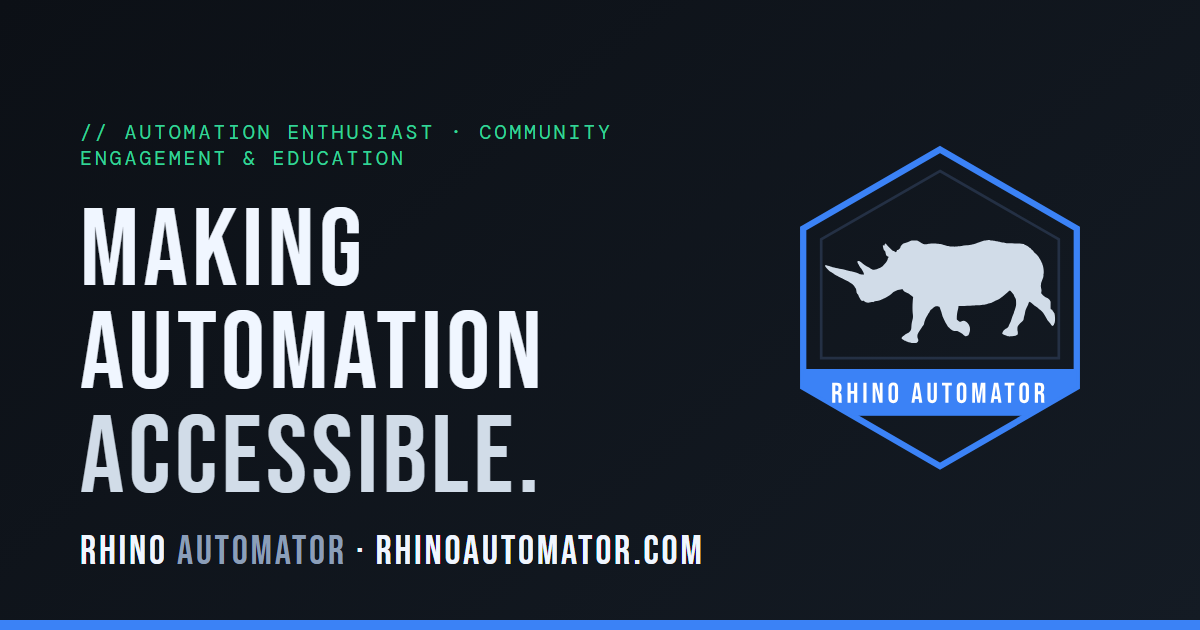
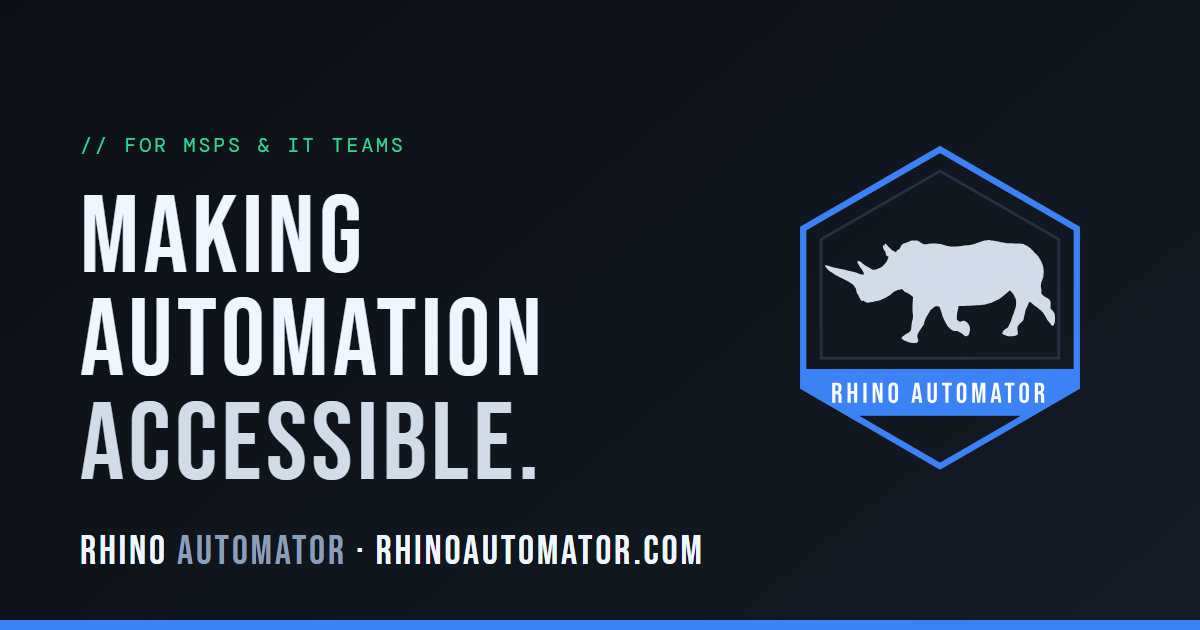
feat(site): consulting contact, Barlow in assessment, regenerated social card
- Consulting card emails brian@rhinoautomator.com with a prefilled subject
- About page contact icons get accessible labels
- Nav width moves from inline style to a .nav-wrap class
- Radar axis labels larger on desktop and mobile
- Assessment descriptions and printable report use Barlow for running text
- Brand page notes use Barlow; size-spec grid no longer collides
- OG card tag synced with hero; og-image.png regenerated

Changed region(s): [[0.0617, 0.3016, 0.4625, 0.7841], [0.0617, 0.181, 0.37, 0.2714], [0.4008, 0.181, 0.4933, 0.2413]]

diff --git a/assessment/index.html b/assessment/index.html
@@ -46,7 +46,7 @@ pageCss: |2
 
       /* ── Archetype ── */
       .archetype-name { font-family: var(--ff-display); font-weight: 400; font-size: var(--fs-assess-name); flex: 1; letter-spacing: 0.04em; }
-      .archetype-desc { font-family: var(--ff-body); font-size: var(--fs-assess-desc); color: var(--muted); margin-top: 2px; }
+      .archetype-desc { font-family: var(--ff-text); font-size: var(--fs-assess-desc); color: var(--muted); margin-top: 2px; }
       .archetype-score-badge {
         min-width: 36px; height: 36px; border-radius: 8px; background: var(--accent); color: #fff;
         display: flex; align-items: center; justify-content: center; font-weight: 700; font-size: var(--fs-assess-badge); flex-shrink: 0;
@@ -70,7 +70,7 @@ pageCss: |2
       .sub-list-title { font-family: var(--ff-mono); font-size: var(--fs-assess-mono-sm); font-weight: 500; color: var(--emerald); text-transform: uppercase; letter-spacing: 0.12em; margin-bottom: 8px; }
       .sub-item { margin-bottom: 7px; padding: 8px 10px; background: var(--surface-alt); border-radius: 6px; border-left: 3px solid var(--cobalt); }
       .sub-item-name { font-family: var(--ff-body); font-size: var(--fs-assess-body); font-weight: 700; }
-      .sub-item-desc { font-family: var(--ff-body); font-size: var(--fs-assess-desc); color: var(--muted); margin-top: 1px; }
+      .sub-item-desc { font-family: var(--ff-text); font-size: var(--fs-assess-desc); color: var(--muted); margin-top: 1px; }
       .sub-item-ref { font-family: var(--ff-mono); font-size: var(--fs-assess-mono-sm); color: var(--muted); margin-top: 2px; font-style: normal; letter-spacing: 0.02em; }
 
       /* ── Chart ── */
@@ -1190,9 +1190,9 @@ function buildReportHtml(includeIndiv, depth) {
   var h = '<!DOCTYPE html><html lang="en"><head><meta charset="UTF-8">';
   h += '<title>Archetypes of Automation \u2014 Capability Report | Rhino Automator</title>';
   h += '<link rel="preconnect" href="https://fonts.googleapis.com"><link rel="preconnect" href="https://fonts.gstatic.com" crossorigin>';
-  h += '<link href="https://fonts.googleapis.com/css2?family=Bebas+Neue&family=Barlow+Condensed:wght@300;400;600;700&family=DM+Mono:wght@400;500&display=swap" rel="stylesheet"><style>';
+  h += '<link href="https://fonts.googleapis.com/css2?family=Bebas+Neue&family=Barlow:wght@400;500;600;700&family=Barlow+Condensed:wght@300;400;600;700&family=DM+Mono:wght@400;500&display=swap" rel="stylesheet"><style>';
   h += '* { box-sizing:border-box; margin:0; padding:0; }';
-  h += 'body { font-family:"Barlow Condensed",sans-serif; color:#1a1f36; background:#fff; padding:40px 48px; max-width:960px; margin:0 auto; font-size:13px; }';
+  h += 'body { font-family:"Barlow",sans-serif; color:#1a1f36; background:#fff; padding:40px 48px; max-width:960px; margin:0 auto; font-size:13px; }';
   h += '.rh { display:flex; gap:16px; align-items:center; padding-bottom:18px; border-bottom:3px solid #3B82F6; margin-bottom:28px; }';
   h += '.rh-logo { width:52px; height:52px; }';
   h += 'h1 { font-family:"Bebas Neue",sans-serif; font-size:1.6rem; font-weight:400; color:#3B82F6; margin-bottom:2px; letter-spacing:0.05em; }';

diff --git a/index.html b/index.html
@@ -35,7 +35,7 @@ pageCss: |2
       .radar .axis { stroke: var(--border); stroke-width: 1; }
       .radar .axis-label {
         /* SVG units: the chart scales with its width, so labels grow as the chart shrinks */
-        font-family: var(--ff-mono); font-size: 13px; letter-spacing: 0.08em;
+        font-family: var(--ff-mono); font-size: 16px; letter-spacing: 0.06em;
         fill: var(--muted); text-transform: uppercase;
       }
       .radar .axis-label.gap { fill: var(--emerald); }
@@ -74,6 +74,10 @@ pageCss: |2
         color: var(--text); margin-bottom: 8px;
       }
       .pillar-card p { font-size: var(--fs-body); color: var(--muted); line-height: 1.6; }
+      .pillar-cta {
+        display: inline-block; margin-top: 16px; font-weight: 700; font-size: var(--fs-btn);
+        letter-spacing: 0.08em; text-transform: uppercase; color: var(--emerald);
+      }
 
       /* Feature list */
       .features { display: grid; grid-template-columns: 1fr 1fr; gap: 16px; }
@@ -103,7 +107,7 @@ pageCss: |2
       @media (max-width: 860px) {
         .hero { grid-template-columns: 1fr; }
         .radar-figure { max-width: 420px; justify-self: center; width: 100%; }
-        .radar .axis-label { font-size: 17px; letter-spacing: 0.04em; }
+        .radar .axis-label { font-size: 19px; letter-spacing: 0.04em; }
         .pillars, .proof, .features { grid-template-columns: 1fr; }
       }
       @media (max-width: 600px) {
@@ -196,10 +200,11 @@ pageCss: |2
         <h3>AUTOMATION</h3>
         <p>Real workflows that solve real problems. Rewst, Power Automate, and whatever gets the job done, focused on MSP and IT operations.</p>
       </a>
-      <a href="/framework/" class="card pillar-card">
+      <a href="mailto:brian@rhinoautomator.com?subject=Automation%20consulting" class="card pillar-card">
         <div class="icon-box pillar-icon"><svg width="22" height="22" viewBox="0 0 24 24" fill="none" stroke="currentColor" stroke-width="2" stroke-linecap="round" stroke-linejoin="round" aria-hidden="true"><circle cx="12" cy="12" r="10"/><circle cx="12" cy="12" r="6"/><circle cx="12" cy="12" r="2"/></svg></div>
         <h3>CONSULTING</h3>
         <p>Helping teams decide what to automate, who should be involved, and how to build a practice that doesn't depend on a single developer.</p>
+        <span class="pillar-cta">Email me about consulting &rarr;</span>
       </a>
       <a href="/community/seen-me.html" class="card pillar-card">
         <div class="icon-box pillar-icon"><svg width="22" height="22" viewBox="0 0 24 24" fill="none" stroke="currentColor" stroke-width="2" stroke-linecap="round" stroke-linejoin="round" aria-hidden="true"><path d="M17 21v-2a4 4 0 00-4-4H5a4 4 0 00-4 4v2"/><circle cx="9" cy="7" r="4"/><path d="M23 21v-2a4 4 0 00-3-3.87"/><path d="M16 3.13a4 4 0 010 7.75"/></svg></div>

diff --git a/about/index.html b/about/index.html
@@ -48,11 +48,11 @@ pageCss: |2
     <h2 id="contact">CONTACT</h2>
 
     <div class="contact-card">
-      <a href="https://www.linkedin.com/in/brianmsimpson/" target="_blank" rel="noopener" class="card contact-link" title="LinkedIn">
-        <svg width="24" height="24" viewBox="0 0 24 24" fill="currentColor"><path d="M20.447 20.452h-3.554v-5.569c0-1.328-.027-3.037-1.852-3.037-1.853 0-2.136 1.445-2.136 2.939v5.667H9.351V9h3.414v1.561h.046c.477-.9 1.637-1.85 3.37-1.85 3.601 0 4.267 2.37 4.267 5.455v6.286zM5.337 7.433a2.062 2.062 0 01-2.063-2.065 2.064 2.064 0 112.063 2.065zm1.782 13.019H3.555V9h3.564v11.452zM22.225 0H1.771C.792 0 0 .774 0 1.729v20.542C0 23.227.792 24 1.771 24h20.451C23.2 24 24 23.227 24 22.271V1.729C24 .774 23.2 0 22.222 0h.003z"/></svg>
+      <a href="https://www.linkedin.com/in/brianmsimpson/" target="_blank" rel="noopener" class="card contact-link" title="LinkedIn" aria-label="LinkedIn">
+        <svg aria-hidden="true" width="24" height="24" viewBox="0 0 24 24" fill="currentColor"><path d="M20.447 20.452h-3.554v-5.569c0-1.328-.027-3.037-1.852-3.037-1.853 0-2.136 1.445-2.136 2.939v5.667H9.351V9h3.414v1.561h.046c.477-.9 1.637-1.85 3.37-1.85 3.601 0 4.267 2.37 4.267 5.455v6.286zM5.337 7.433a2.062 2.062 0 01-2.063-2.065 2.064 2.064 0 112.063 2.065zm1.782 13.019H3.555V9h3.564v11.452zM22.225 0H1.771C.792 0 0 .774 0 1.729v20.542C0 23.227.792 24 1.771 24h20.451C23.2 24 24 23.227 24 22.271V1.729C24 .774 23.2 0 22.222 0h.003z"/></svg>
       </a>
-      <a href="mailto:brian@rhinoautomator.com" class="card contact-link" title="Email">
-        <svg width="24" height="24" viewBox="0 0 24 24" fill="none" stroke="currentColor" stroke-width="2" stroke-linecap="round" stroke-linejoin="round"><rect x="2" y="4" width="20" height="16" rx="2"/><path d="M22 4L12 13 2 4"/></svg>
+      <a href="mailto:brian@rhinoautomator.com" class="card contact-link" title="Email" aria-label="Email brian@rhinoautomator.com">
+        <svg aria-hidden="true" width="24" height="24" viewBox="0 0 24 24" fill="none" stroke="currentColor" stroke-width="2" stroke-linecap="round" stroke-linejoin="round"><rect x="2" y="4" width="20" height="16" rx="2"/><path d="M22 4L12 13 2 4"/></svg>
       </a>
     </div>
   </div>

diff --git a/about/brand.html b/about/brand.html
@@ -74,8 +74,8 @@ pageCss: |2
       }
       .spec-xl { font-family: var(--ff-display); font-size: var(--fs-brand-title); letter-spacing: 0.05em; color: var(--text); line-height: 0.95; margin-bottom: 4px; }
       .spec-lg { font-family: var(--ff-display); font-size: var(--fs-h3); letter-spacing: 0.05em; color: var(--silver); margin-bottom: 16px; }
-      .spec-sizes { border-top: 1px solid var(--border); padding-top: 14px; display: grid; grid-template-columns: repeat(auto-fit, minmax(180px, 1fr)); gap: 8px; }
-      .spec-sizes > div { display: flex; justify-content: space-between; align-items: baseline; }
+      .spec-sizes { border-top: 1px solid var(--border); padding-top: 14px; display: grid; grid-template-columns: repeat(auto-fit, minmax(260px, 1fr)); gap: 8px 32px; }
+      .spec-sizes > div { display: flex; justify-content: space-between; align-items: baseline; gap: 12px; }
       .spec-sizes span:first-child { font-size: var(--fs-body); color: var(--muted); }
       .content .spec-body { max-width: 600px; margin-bottom: 12px; }
       .spec-ui { font-weight: 700; font-size: var(--fs-body); color: var(--text); letter-spacing: 0.1em; text-transform: uppercase; }
@@ -87,7 +87,7 @@ pageCss: |2
       .code-block > div { margin-bottom: 4px; }
       .code-block > div:last-child { margin-bottom: 0; }
       .code-block.lg { border-left-width: 3px; padding: 16px; margin-bottom: 0; }
-      .note { font-size: var(--fs-body); color: var(--muted); line-height: 1.5; }
+      .note { font-family: var(--ff-text); font-size: var(--fs-body); color: var(--muted); line-height: 1.5; }
 
       /* Taglines */
       .tagline-list { display: flex; flex-direction: column; gap: 8px; }

diff --git a/assets/tokens.css b/assets/tokens.css
@@ -118,6 +118,7 @@ p, li, td, dd, blockquote, figcaption { font-family: var(--ff-text); }
    NAVIGATION
    ════════════════════════════════════ */
 
+.nav-wrap { max-width: 1100px; margin: 0 auto; }
 .site-nav {
   background: var(--bg); border-bottom: 1px solid var(--border);
   padding: 14px 32px; display: flex; align-items: center; justify-content: space-between;

diff --git a/scripts/og-card.html b/scripts/og-card.html
@@ -36,7 +36,7 @@
 </head>
 <body>
   <div class="text">
-    <div class="tag">// AUTOMATION ENTHUSIAST · COMMUNITY ENGAGEMENT &amp; EDUCATION</div>
+    <div class="tag">// FOR MSPS &amp; IT TEAMS</div>
     <h1>MAKING AUTOMATION<br/><span class="silver">ACCESSIBLE.</span></h1>
   </div>
   <img class="badge" src="../assets/logo/badge.svg" alt=""/>
